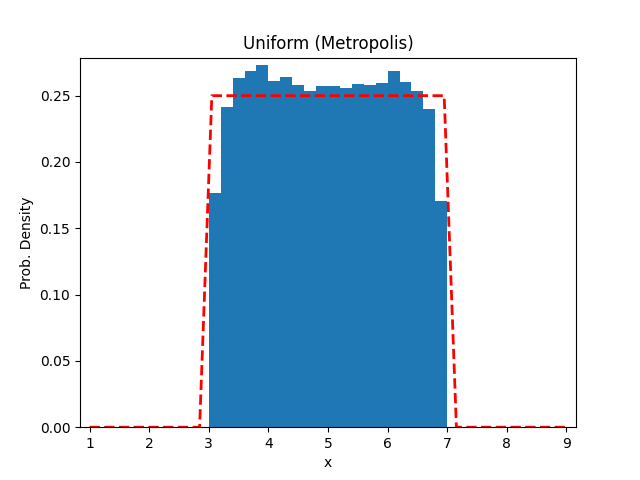
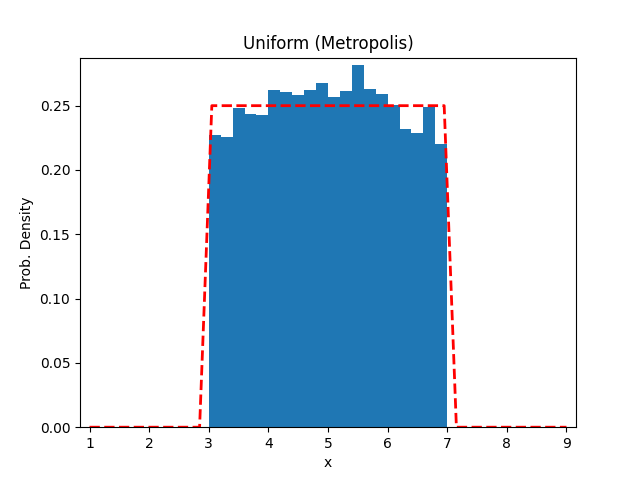
assn 3 first compplete draft

diff --git a/Assignment3/Question10/solution.py b/Assignment3/Question10/solution.py
@@ -1,0 +1,151 @@
+'''
+This script provides the solution
+for Question 10 of Assignment 3
+'''
+
+from cProfile import label
+import sys
+from pathlib import Path
+from turtle import color
+
+# Python imports
+import numpy as np
+import pandas as pd
+from scipy.optimize import minimize
+import emcee as mc
+import corner
+
+# Add the Utils Module
+p = Path(__file__).resolve().parents[2]
+sys.path.append(str(p))
+
+# Utils module imports
+from Utils.plt_creator import plt_creator
+from Utils.mc_routines import log_likelihod, log_probability
+from Utils.colors import blue, green, red, black, magenta
+
+
+# Read file
+df = pd.read_csv (
+    'data.txt',
+    sep = '&',
+    engine = 'python'
+)
+df.columns = df.columns.str.replace(' ','')
+
+# Objective Function
+def objective(theta, x):
+    return theta[0] + theta[1]*x + theta[2]*x*x
+
+# Prior function
+def log_prior(theta):
+    return (-np.inf if all(np.abs(theta) > 500) else 0)
+
+# Get optimal theta
+data = np.transpose(df[["x", "y", "sigma_y"]].to_numpy())
+A = lambda theta, sign=1: sign*log_probability(log_likelihod(theta, objective, data), log_prior(theta))
+guess = [1.0, 1.0, 10.0]
+soln = minimize(A, guess, args=(-1))
+
+# Initialise Markov Chain sampler
+nwalkers = 50
+sampler = mc.EnsembleSampler(nwalkers, 3, A)
+
+# Create Markov Chains
+pos = soln.x + 1e-4*np.random.randn(nwalkers, 3)
+sampler.run_mcmc(pos, 4000)
+
+# Get Chains and Plot
+samples = sampler.get_chain()
+medians = np.median(samples, axis=0)
+
+a_bf = np.average(medians[:,2])
+b_bf = np.average(medians[:,1])
+c_bf = np.average(medians[:,0])
+
+a_sigma = np.std(medians[:,2])
+b_sigma = np.std(medians[:,1])
+c_sigma = np.std(medians[:,0])
+
+# Get best fit values and uncertainities
+print("Best fit values of a, b, c are:", a_bf, b_bf, c_bf)
+print("One sigma uncertainities on values of a, b, c are:", a_sigma, b_sigma, c_sigma)
+
+# Plot the markov chains
+plt = plt_creator(
+    title="Markov Chain: c", 
+    xLabel="steps", 
+    yLabel="c",
+    xMargin=0.02, 
+    yMargin=0.02
+)
+plt.plot(samples[:, :, 0], color="0.0", alpha=0.1) # c values
+plt.savefig("Results/c.png")
+plt.close()
+
+plt = plt_creator(
+    title="Markov Chain: b", 
+    xLabel="steps", 
+    yLabel="b",
+    xMargin=0.02, 
+    yMargin=0.02
+)
+plt.plot(samples[:, :, 1], color="0.0", alpha=0.1) # b values
+plt.savefig("Results/b.png")
+plt.close()
+
+plt = plt_creator(
+    title="Markov Chain: a", 
+    xLabel="steps", 
+    yLabel="a",
+    xMargin=0.02, 
+    yMargin=0.02
+)
+plt.plot(samples[:, :, 2], color="0.0", alpha=0.1) # a values
+plt.savefig("Results/a.png")
+plt.close()
+
+# Plot the corner distribution
+c_true, b_true, a_true = medians[0]
+sample = samples[:, 0, :]
+
+fig = corner.corner(
+    sample,
+    labels=["c", "b", "a"],
+    truths=[c_true, b_true, a_true]
+)
+plt.savefig("Results/corner.png")
+plt.close()
+
+# Data Plot
+# Order data points
+order = np.argsort(data[0])
+
+plt = plt_creator(
+    title="Data Fits", 
+    xLabel="x", 
+    yLabel="y",
+    xMargin=0.02, 
+    yMargin=0.02
+)
+
+# Plot data points
+plt.errorbar(data[0], data[1], yerr=data[2], fmt="o", color=black, label="data")
+
+# Plot 200 random models
+for i in range (200):
+    j = np.random.randint(1, 4000)
+    theta = samples[j, 0, :]
+    label = "random fit" if i == 0 else '_nolegend_'
+    plt.plot(data[0][order], objective(theta, data[0])[order], color=magenta, alpha=0.1, label=label)
+
+# Plot best fit model
+plt.plot(data[0][order], objective([c_bf, b_bf, a_bf], data[0])[order], color=blue, label="best fit")
+
+plt.legend(loc ="lower right")
+plt.savefig("Results/datafit.png")
+
+
+
+
+

diff --git a/Assignment3/Question9/solution.py b/Assignment3/Question9/solution.py
@@ -15,12 +15,13 @@ sys.path.append(str(p))
 
 # Utils module imports
 from Utils.mc_routines import metropolis, rng
-from Utils.colors import red
+from Utils.colors import red, blue, magenta
 from Utils.plt_creator import plt_creator
 
 # proposal pdf (walker)
 def proposal(theta):
-    theta_p = rng.normal(loc = theta, scale=0.2)
+    theta_p = rng.normal(loc = theta, scale=3)
+    # theta_p = rng.uniform(high=10., low=0., size=len(theta))
     return theta_p
 
 # target distribution
@@ -30,16 +31,37 @@ def target(theta):
 
 # params
 ndim = 1
-npoints = 100000
-theta_i = np.ones(ndim)*3.1
+npoints = 20000
+theta_i = np.ones(ndim)*5.0
 
 # sample list
 sample = [theta_i]
 
+# Markov chain vars
+bad_steps, good_steps = [], [0]
+bad_points = []
+
 # sampler
 for i in range(npoints):
-    sample.append(metropolis(sample[-1], proposal, target, ndim))
-sample = sample[1:]
+    theta, prop_arr = metropolis(sample[-1], proposal, target, ndim)
+    sample.append(theta)
+    bad_points += prop_arr[:-1]
+    bad_steps += list(range(good_steps[-1] + 1, len(prop_arr) + good_steps[-1]))
+    good_steps.append(good_steps[-1] + len(prop_arr)) 
+
+
+# Plot Markov chain
+plt = plt_creator(
+    title="Markov Chain", 
+    xLabel="steps", 
+    yLabel=r'$\theta$',
+    xMargin=0.02, 
+    yMargin=0.02
+)
+
+plt.scatter(bad_steps, [A[0] for A in bad_points], color=magenta, s=10)
+plt.plot(good_steps, [A[0] for A in sample], color=blue, lw=0.5)
+plt.savefig("Results/MC_plot.png")
 
 # Initialise plot
 plt = plt_creator(

diff --git a/Utils/mc_routines.py b/Utils/mc_routines.py
@@ -1,6 +1,7 @@
 # Script Containing Monte-Carlo Methods
 
 # Python imports
+from math import sqrt
 import numpy as np
 
 # Initialise RNG
@@ -22,7 +23,23 @@ def AcptRejSample(range, height, dist):
 # Metropolis Algorithm
 def metropolis(theta_i, proposal, target, ndim):
     theta = theta_i
+    prop_arr = []
     while (all(theta==theta_i)):
         temp = proposal(theta_i)
         theta = temp if all(target(temp)/target(theta_i) > rng.uniform(size = ndim)) else theta_i
-    return theta
+        prop_arr.append(temp)
+    return theta, prop_arr
+
+
+# Negative Log Likelihood
+def log_likelihod(theta, objective, data):
+    x, y, y_err = data
+    nll_c = np.log(np.sqrt(2*np.pi)*y_err)
+    nll = (y-objective(theta, x))*(y-objective(theta, x))/(2*y_err*y_err)
+    return -np.sum(nll_c + nll)
+
+# Log Probability
+def log_probability(log_likelihood, log_prior):
+    return (log_prior + log_likelihood if (np.isfinite(log_prior)) else -np.inf)
+
+ 
